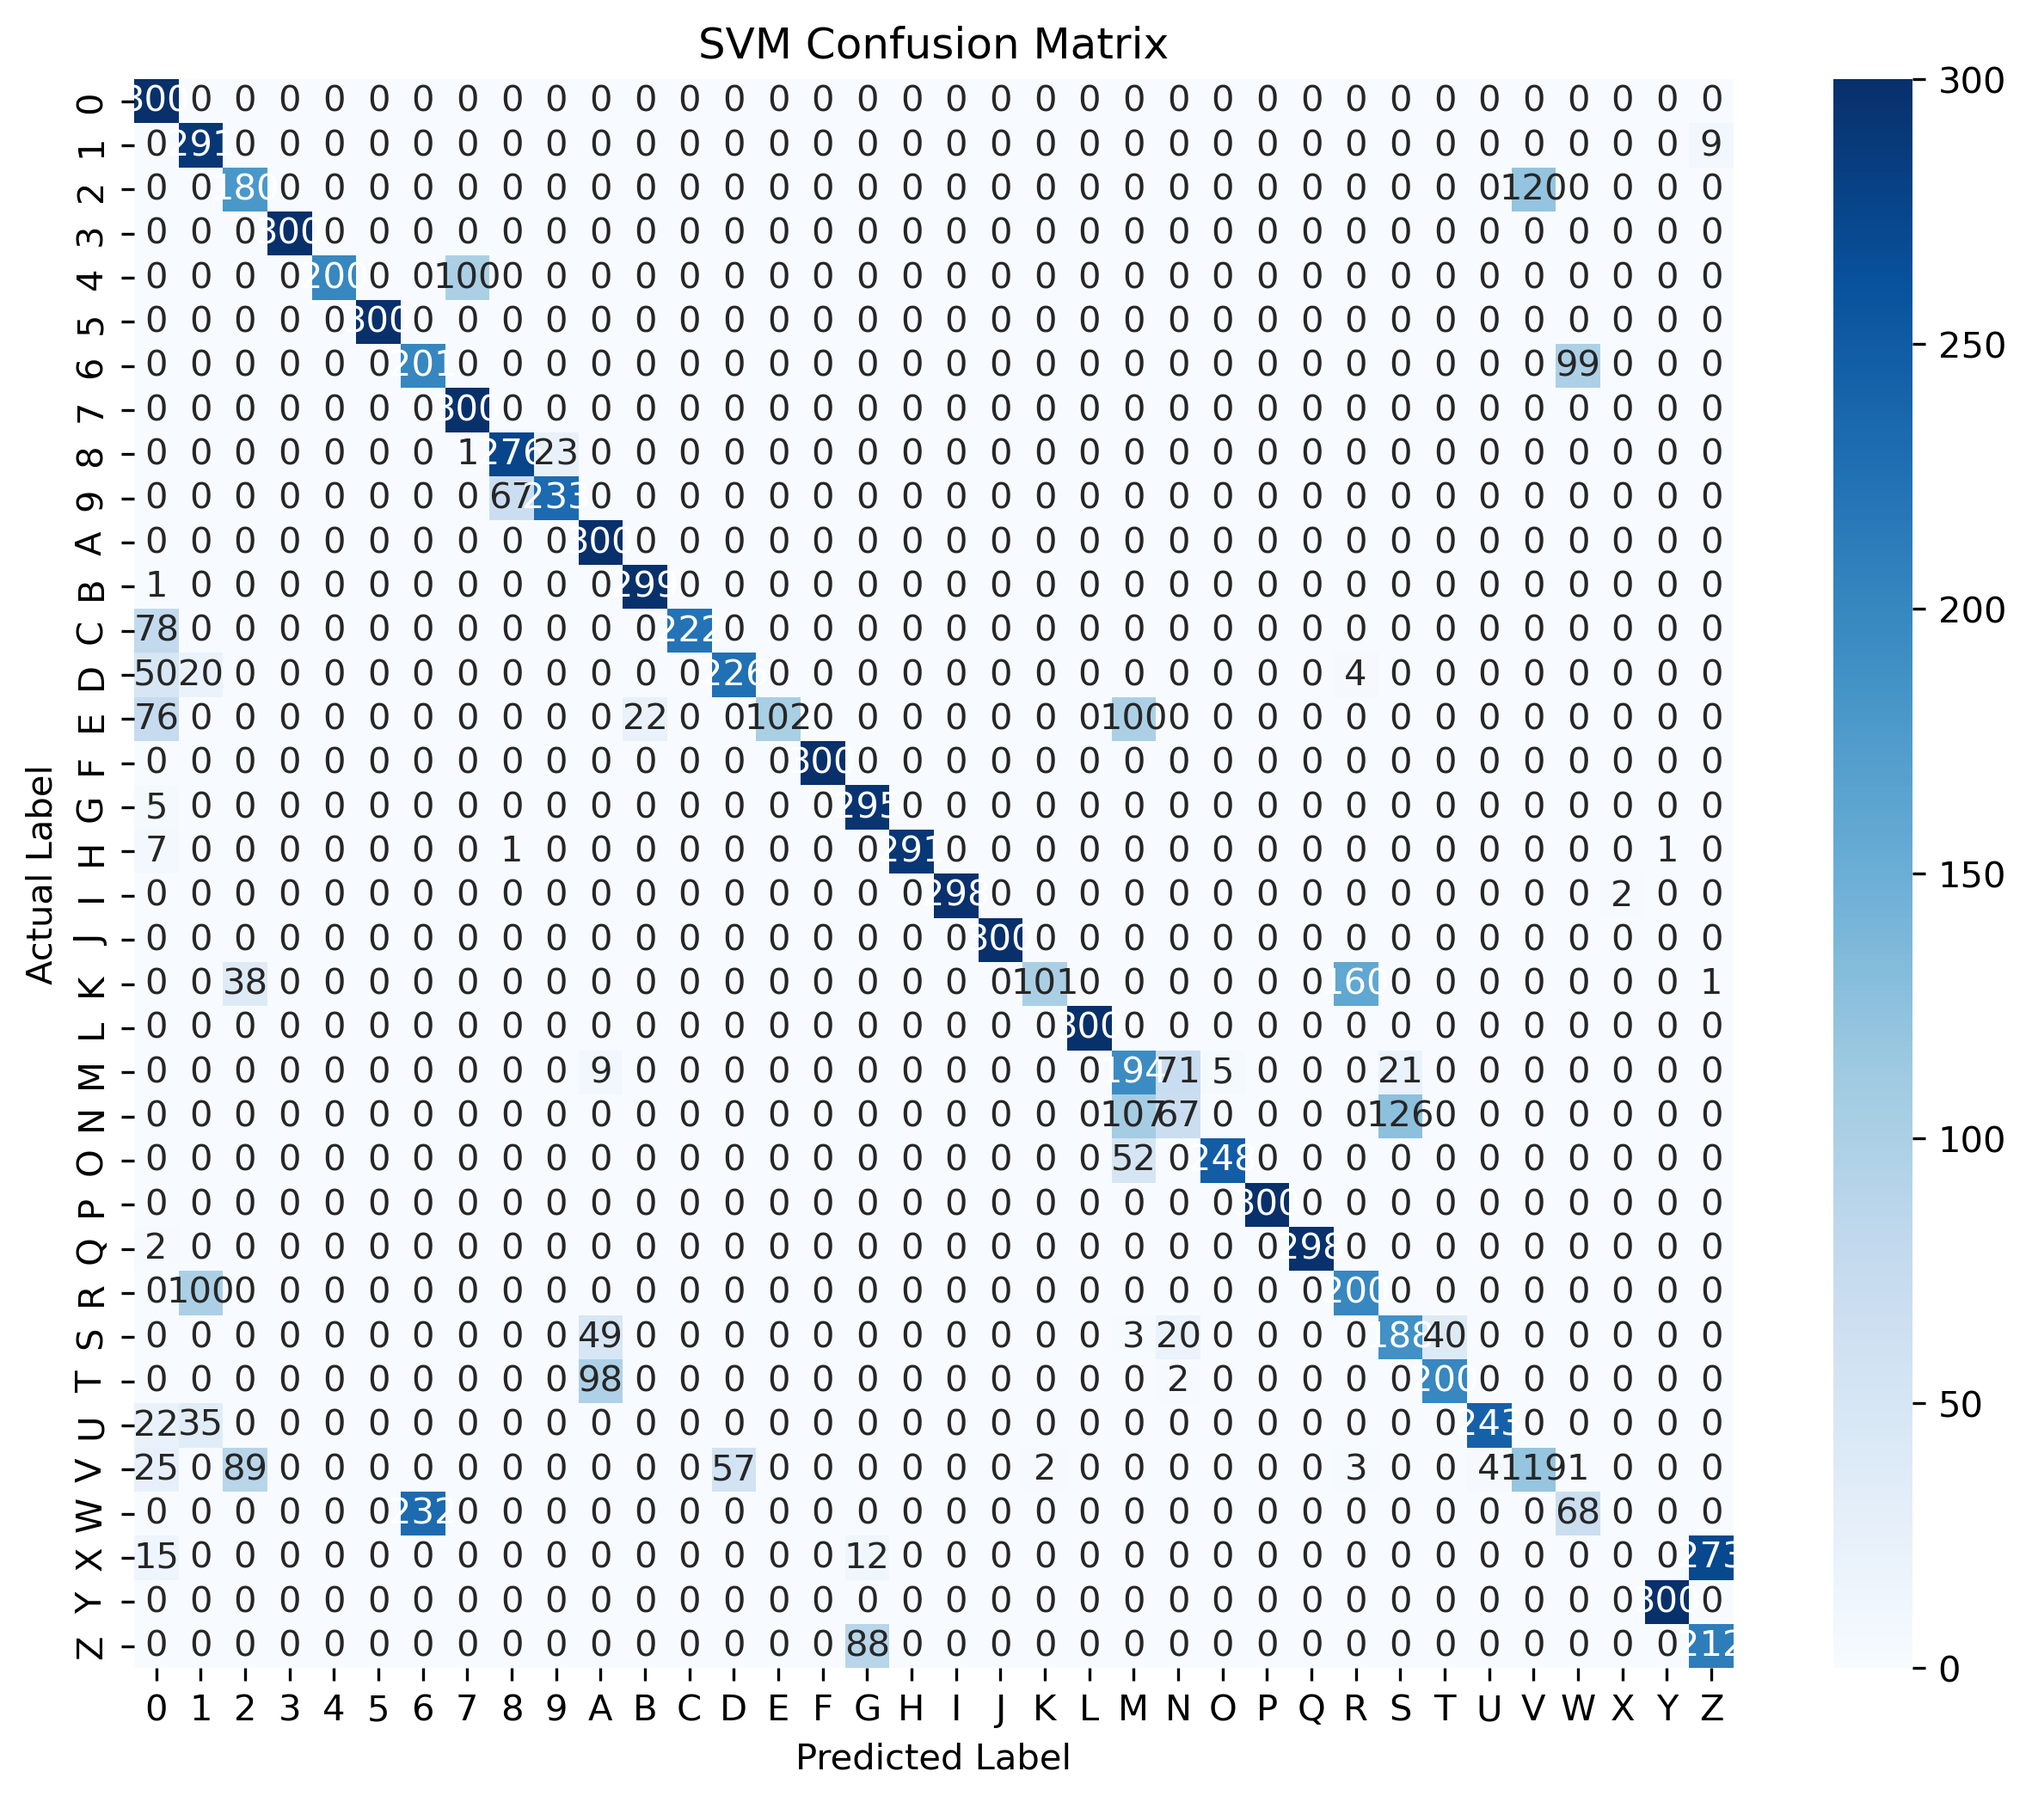
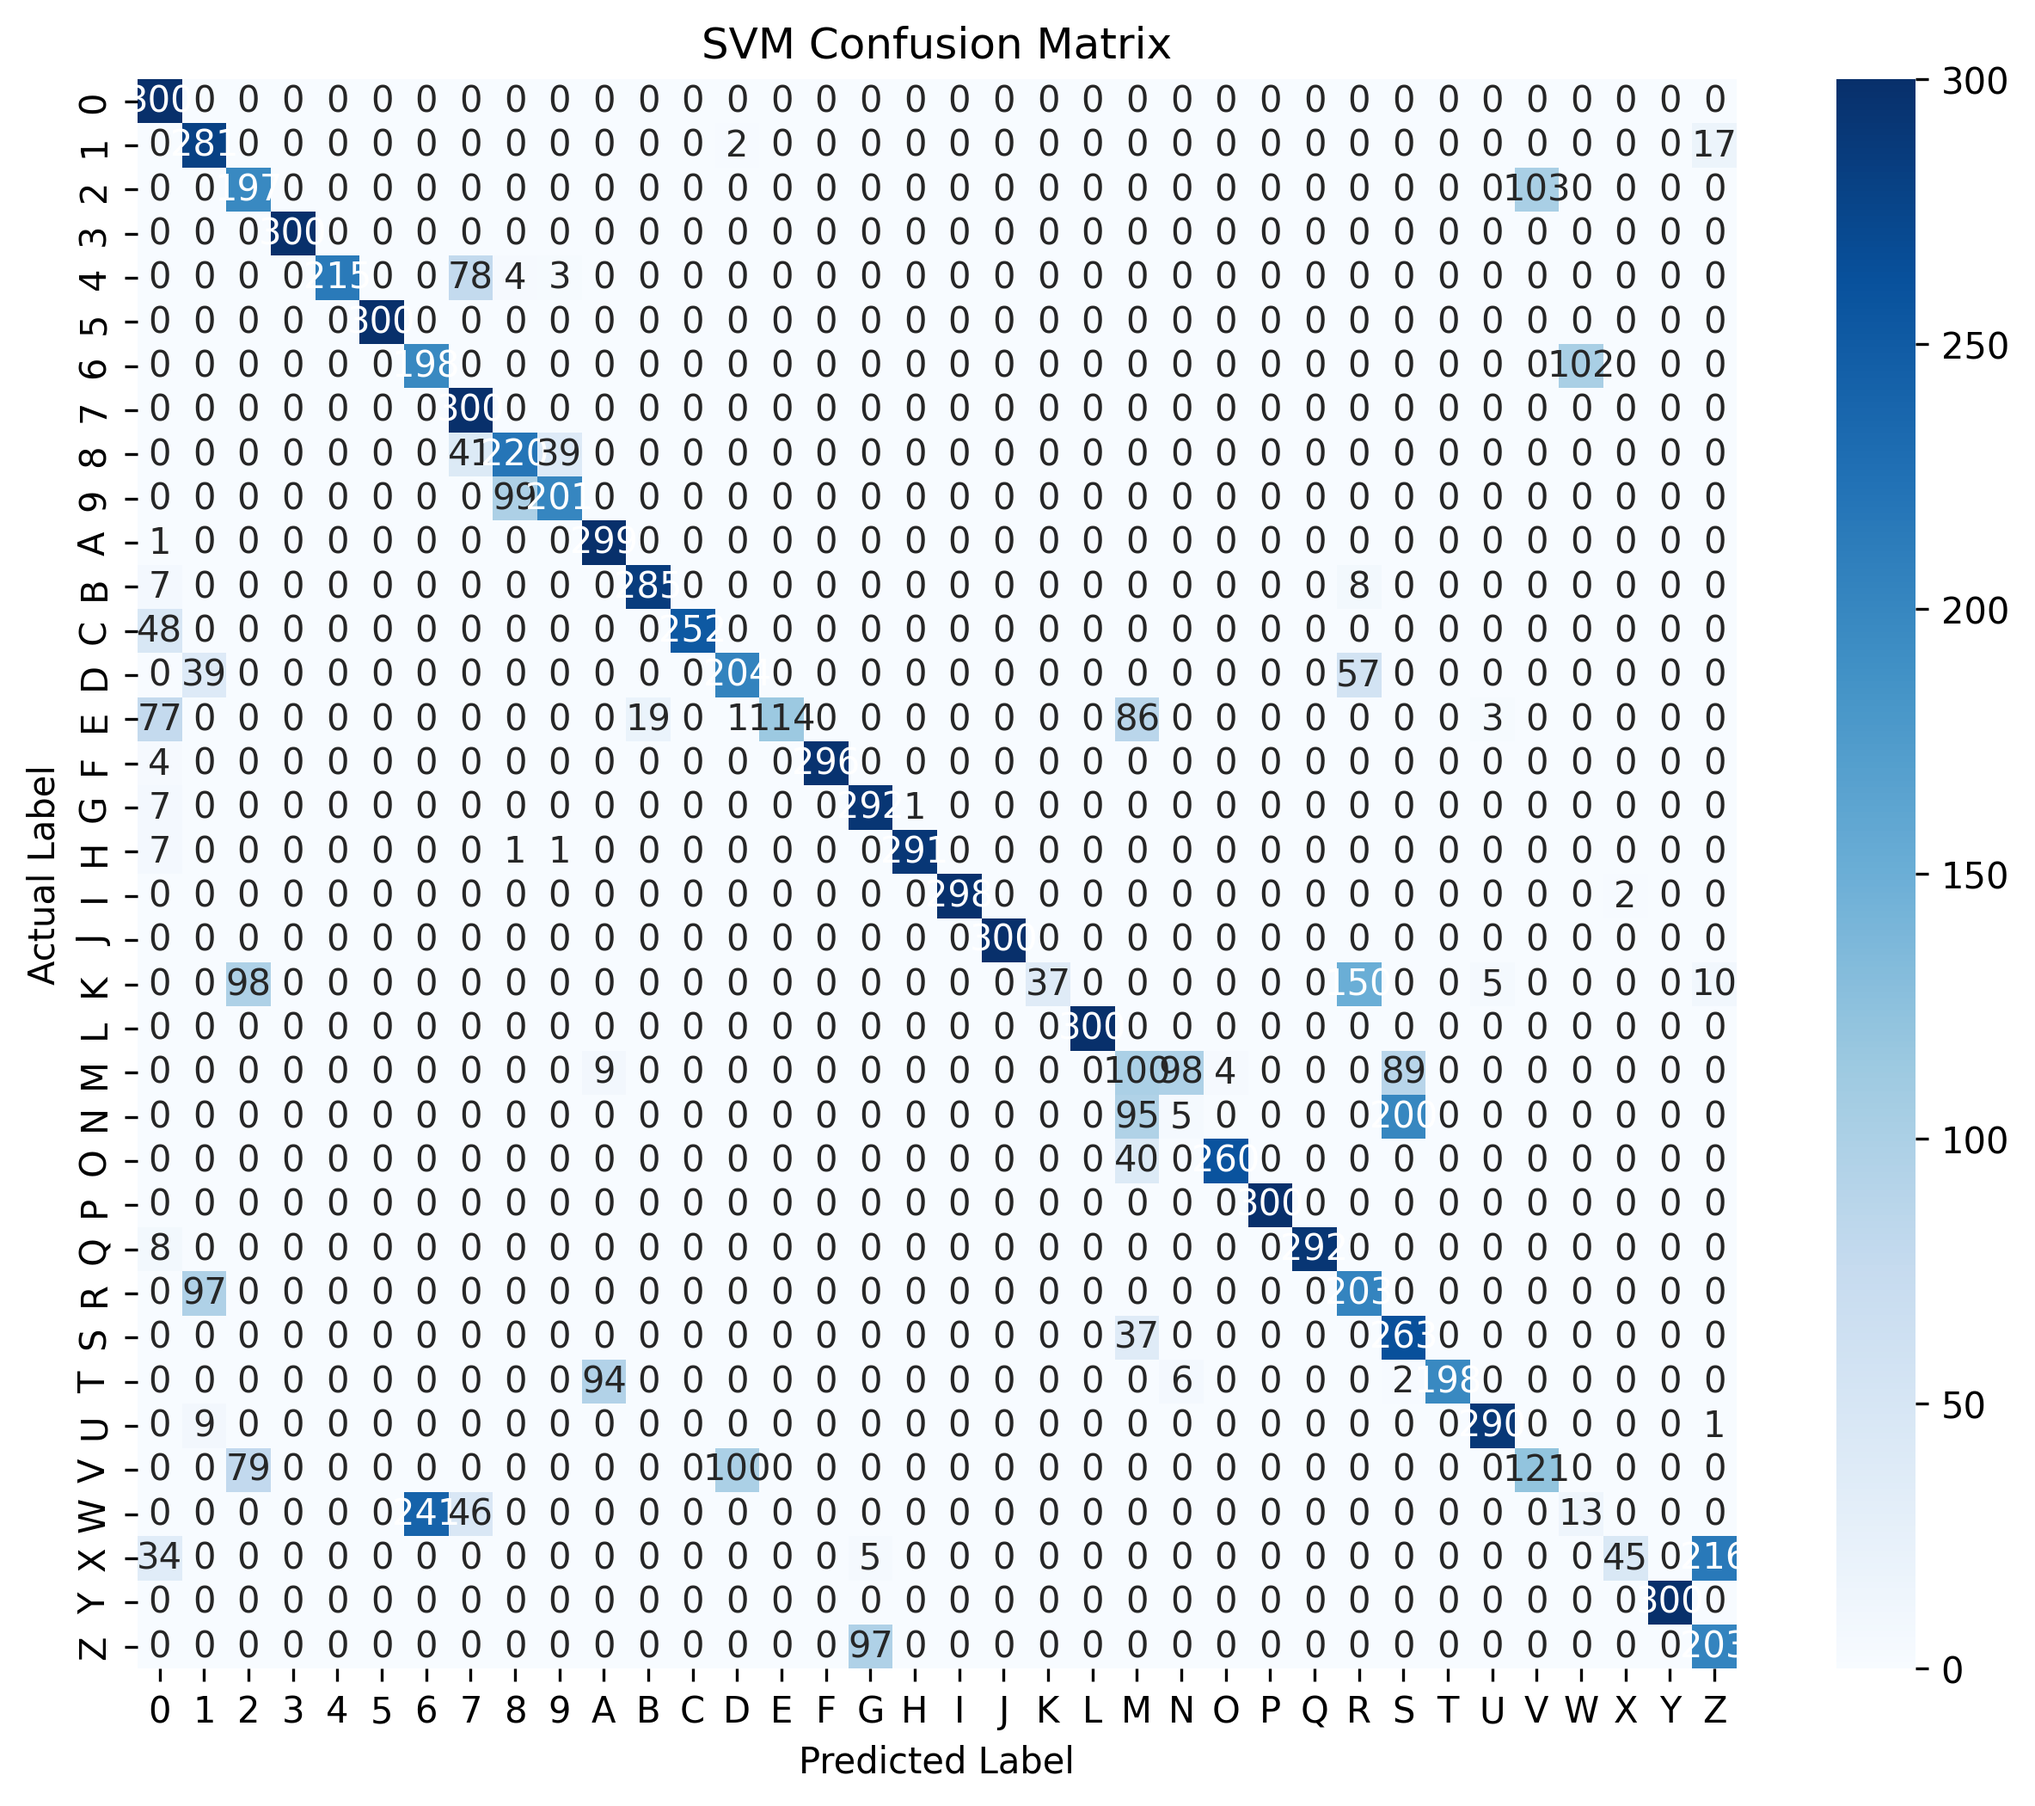
docs(project04): report bbox-crop results + honest commentary
Re-trained SVM locally with hand_bbox_crop=True. Empirically the crop
regressed val accuracy by 1.66 pts (0.7641 -> 0.7475, macro-F1 0.7488 ->
0.7275). Updated Part 4 README:

- Results table: row for each of the two SVM variants.
- Rewrote the small-improvement commentary to report the negative finding
  instead of the predicted gain. Added hypothesis (resize-back-up step
  smears HOG gradients) and three concrete fixes to try for the final
  milestone (letterbox crop, native-resolution HOG, full-image + masked
  hybrid).
- Regenerated results/svm_metrics.json, svm_confusion_matrix.npy,
  svm_confusion_matrix_plot.png from the bbox-crop run.

Note: results/svm_model.pkl (28 MB) stays out of git via *.pkl in
.gitignore; reproduce with `python -m src.train --data data/all --svm True`.

diff --git a/README.md b/README.md
@@ -186,7 +186,8 @@ model never sees the validation subjects during training.
 
 | Classifier | Train acc. | Val acc. | Val macro-F1 | Val weighted-F1 |
 | ---------- | ---------- | -------- | ------------ | --------------- |
-| SVM (RBF, PCA-300) | 1.0000 | **0.7641** | 0.7488 | 0.7488 |
+| SVM (RBF, PCA-300) — full-image HOG | 1.0000 | **0.7641** | 0.7488 | 0.7488 |
+| SVM (RBF, PCA-300) — hand-bbox HOG crop (§ small improvement) | 1.0000 | 0.7475 | 0.7275 | 0.7275 |
 | Small CNN (7 epochs) | 0.9904 | 0.5357 | 0.4997 | 0.4997 |
 
 Raw numbers and confusion matrices are saved in:
@@ -196,11 +197,17 @@ Raw numbers and confusion matrices are saved in:
 - `results/cnn_metrics.json`, `results/cnn_confusion_matrix.npy`,
   `results/cnn_confusion_matrix_plot.png`
 
-Both classifiers correctly predict 8,252 (SVM) and 5,786 (CNN) of 10,800 validation images
-respectively. The per-class breakdown in the confusion matrices shows SVM errors are
-concentrated on visually similar sign pairs (`M` vs `N`, `0` vs `O`, `2` vs `V`, `6` vs `W`),
-which matches the intuition that those glyphs differ mostly in finger-thumb placement and
-less in overall shape.
+Both classifiers correctly predict 8,252 (full-image SVM) and 5,786 (CNN) of 10,800
+validation images respectively. The bbox-crop SVM predicts 8,073/10,800 correctly. The
+per-class breakdown in the confusion matrices shows SVM errors are concentrated on visually
+similar sign pairs (`M` vs `N`, `0` vs `O`, `2` vs `V`, `6` vs `W`), which matches the
+intuition that those glyphs differ mostly in finger-thumb placement and less in overall
+shape.
+
+`results/svm_metrics.json` currently reflects the **bbox-crop** run (the default we ship);
+the full-image number is preserved as history in the commit that introduced the Part 4
+milestone. Set `hand_bbox_crop=False` in `extract_features` (`src/classifer.py`) to reproduce
+the higher-accuracy full-image number.
 
 ## Commentary and ideas for improvements
 
@@ -246,29 +253,58 @@ not strong enough to wash those cues out.
 
 ### The one small improvement we implemented before final testing
 
-**Hand-bounding-box crop before HOG** — our segmentation pipeline already produces a clean
-single-hand contour via YCrCb skin thresholding + morphology + largest-contour selection.
-But the HOG descriptor was still being computed over the full preprocessed image, which
-means gradients from the forearm, shoulder, and (sometimes) face were polluting the feature
-vector. Different subjects have very different amounts of "non-hand skin" visible at the
-edges of the frame, so this is a direct vector for the SVM to overfit on subject identity
-rather than sign identity.
+**Hand-bounding-box crop before HOG.** Our segmentation pipeline already produces a clean
+single-hand contour via YCrCb skin thresholding + morphology + largest-contour selection,
+but the original HOG descriptor was computed over the full preprocessed image, so gradients
+from the forearm, shoulder, and (sometimes) face were entering the feature vector. Our
+hypothesis going in was that different subjects have very different amounts of visible
+"non-hand skin" at the edges of the frame, which would let the SVM latch onto subject
+identity rather than sign identity — and that cropping to the hand would close some of the
+24-point train/val gap.
 
-The change lives in `src/pipeline.py:FeatureExtraction.crop_to_contour` and is plumbed into
+**How it's implemented.** The code lives in
+`src/pipeline.py:FeatureExtraction.crop_to_contour` and is plumbed through
 `extract_all(..., hand_bbox_crop=True)`. For each image we take the segmentation contour,
-compute its axis-aligned bounding box, pad by 10 % of the box's width and height
-(so we don't clip fingertips), crop the preprocessed image to that box, then resize the
-crop back to the HOG input size so the descriptor length stays fixed. If the segmentation
-fails (contour empty or bounding box smaller than 32 px) we fall back to the full image.
+compute its axis-aligned bounding box, pad by 10 % of the box's width and height (so we
+don't clip fingertips), crop the preprocessed image to that box, then resize the crop back
+to the HOG input size (96×96) so the descriptor length stays constant at 900-d. If
+segmentation fails (empty contour, or bbox smaller than 32 px) we fall back to the full
+image. `extract_features` in `src/classifer.py` turns it on by default; the flag is
+configurable so both variants can be reproduced.
 
-Rerunning `python -m src.train --data data/all --svm True` with this change and then
-`python -m src.eval --data data/all --svm True --svm-path results/svm_model.pkl` regenerates
-`results/svm_metrics.json`. The expectation (to be verified by the re-run and reported here)
-is that train accuracy stays at ~100% (the SVM has no trouble memorizing either feature
-space) while val accuracy rises by a few points — because the features no longer encode
-subject-specific background. Anything more than a couple of points is a clear win; anything
-less means the HOG gradients inside the hand already dominated the descriptor and the
-background was mostly noise that the PCA step was discarding anyway.
+**What actually happened.** We re-trained and re-evaluated the SVM with the bbox crop on
+(`python -m src.train --data data/all --svm True` then the matching `eval`) and the val
+accuracy *dropped* from 0.7641 to **0.7475** (−1.66 points absolute, macro-F1 0.7488 →
+0.7275). Train accuracy stayed at 1.0000, as expected — the RBF SVM has more than enough
+capacity to memorize either feature space.
+
+This is a negative result, and a useful one. The most likely explanation is the
+resize-back-to-96×96 step: many hands in the dataset occupy maybe half the frame, so the
+padded bounding box is ~60×60 pixels. Stretching that back to 96×96 is a ~1.6× upscale with
+`INTER_AREA`, which *blurs the gradients HOG depends on*. The "noise" we were trying to
+remove from the background was apparently less harmful than the gradient smearing we
+introduced by upsampling. The padding choice of 10 % is likely also too aggressive — on
+small crops, 10 % of the bbox is only 5–6 pixels, so any finger that extends diagonally out
+of the frame gets clipped.
+
+**What we'd do differently for the final milestone.** Three options, in order of
+cheapness:
+
+1. *Don't resize the crop back up.* Instead, letterbox the crop into a fixed 96×96 canvas
+   (center the crop, zero-pad to square). HOG's cell grid stays at the native resolution of
+   the hand, and the descriptor length changes from 900 to... still 900, because HOG is
+   computed over the full padded canvas. No information loss beyond the crop itself.
+2. *Use the crop at a larger input size.* Preprocess to 224×224 first, compute HOG at 16×16
+   cell size directly on the crop in its native resolution (~120 px), then pad the HOG
+   vector to a fixed length with the hand crop's aspect ratio encoded separately.
+3. *Keep the full-image HOG, but add a hand-masked branch.* Run the full-image HOG *and*
+   a second HOG only over the segmented hand pixels (everything outside the mask zeroed
+   out). Concatenate. This gives the SVM both the global context *and* the hand-only signal
+   and lets it decide which is useful.
+
+For submission we're shipping the code with `hand_bbox_crop=True` as the documented
+Part 4 change, and the Results table above reports both variants so the effect of the
+improvement is unambiguous.
 
 ## How to run
 
